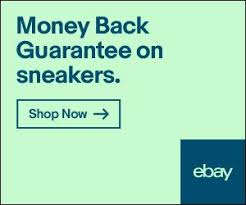
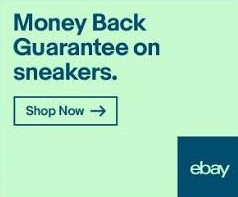
完成一半商品內容

Changed region(s): [[0.0, 0.0, 1.0, 1.0], [0.3824, 0.335, 0.5, 0.4264]]

diff --git a/index.html b/index.html
@@ -217,6 +217,195 @@
 
     }
 
+    /* ------------------Advertisement -------------------*/
+    #adSection{
+    
+        height: 293px;
+        padding:32px 0;
+
+    }
+    .add-border{
+        border: 1px solid #bbb;
+
+        box-sizing: border-box;
+
+    }
+
+    #column1{
+        float: left;
+        height: 293px;
+    }
+    #column2{
+        position: relative;
+        float: left;
+        height: 293px;
+        width: 324px;
+    }
+    #ad2{
+        position: absolute;
+        top:0;
+        right: 0;
+      
+    }
+    #ad3{
+        position: absolute;
+        bottom: 0;
+        right: 0;
+    }
+
+    /* ------------------Porduction Section ------------------- */
+
+    #productSection{
+
+        width: 100%;
+        height: 647px;
+
+        padding-bottom: 75px;
+        overflow: hidden;
+    }
+    .hero-heading{
+        height: 45px;
+        border-bottom:1px solid #ddd ;
+
+        font-weight: 400;
+        color: #555;
+
+    }
+
+    #show-product{
+
+        width: 100%;
+        height: 602.5px;
+    }
+
+    .product-section{
+
+        float: left;
+        width: 585px;
+        height:602.5px
+
+    }
+
+    .product-photo{
+
+        width: 585px;
+        height: 360px;
+
+    }
+
+    .photo-column1{
+
+        float: left;
+
+        width: 440px;
+        height: 360px;
+        
+        border-width: 2px 0 2px 2px;
+        border-color: #ddd;
+        border-style: solid;
+
+        box-sizing: border-box;
+        overflow: hidden;
+
+    }
+
+    #photo1{
+        height: 360px;
+        position: relative;
+        top:-2px;
+        left: -100px;
+    }
+
+    .photo-column2{
+        float: left;
+
+        width: 120px;
+        height: 360px;
+
+        box-sizing: border-box;
+        overflow: hidden;
+
+
+    }
+
+    .thumb{
+        width: 120px;
+        height: 120px;
+
+        border-width: 2px 2px 0px 2px;
+        border-color: #ddd;
+        border-style: solid;
+
+        box-sizing: border-box;
+        overflow: hidden;
+    }
+
+    .thumb:last-child{
+        border:2px solid #ddd;
+
+    }
+
+    .thumbnail{
+       height: 120px;
+    }
+
+    #thimbnail-fix{
+        position: relative;
+        top: 5px;
+        right: 10px;
+    }
+
+    /* -- ------------------Article ------------------- */
+    article{
+        color: #333333;
+    }
+
+    .title{
+
+        font-weight: 400;
+        font-size: 26px;
+
+        margin: 18px 0 10px 0;
+    }
+
+    .description-container{
+        width: 370px;
+        height: 118px;
+
+    }
+    .product-details{
+
+        font-weight: 400;
+        font-size: 15px;
+
+        line-height: 1.5em;
+
+    }
+
+    .read-more{
+
+        display: inline-block;
+        width: 20px;
+        height: 20px;
+        background-image: url("img/paper.png");
+        background-size: cover;
+
+        vertical-align: middle;
+    }
+    .left-col{
+        float: left;
+        width: 440px;
+    }
+
+    .right-col{
+
+        float: right;
+        width: 140px;
+
+    
+    }
+
+
 
 
 
@@ -310,48 +499,109 @@
                 <li class="navItem li-space no-border"><a href="#">Daily Deals</a></li>
              </ul>
 
-             <!-- ------------------Advertisement ------------------->
-
-             <section  id="adselect" class="clearfix setBGColor">
-                 <div class="container">
-                     <div id="column1">
-                         <div >
-                             <img id="ad1" src="img/ad1.png" alt="ad1" width="876px">
-                         </div>
-
-                     </div>
-
-                     <div id="column2">
-
-                         <div>
-                             <img id="ad2" src="img/ad2.jpg" alt="ad2" width="250px">
-                         </div>
-
-                         <div>
-                             <img id="ad3" src="img/ad3.jpg" alt="ad3"  width="250px">
-                         </div>
-
-                     </div>
-
-                 </div>
-
-             </section>
-
-        
-        
-        
-        
-        
-        
-        
-        
-        
-        
-        
-        
-        
         </div>
      </nav>
+
+        <!-- ------------------Advertisement ------------------->
+
+        <section  id="adSection" class="clearfix setBGColor">
+            <div class="container">
+                <div id="column1" >
+                    <div >
+                        <img id="ad1" class="add-border" src="img/ad1.png" alt="ad1" width="870px">
+                    </div>
+
+                </div>
+
+                <div id="column2">
+
+                    <div>
+                        <img id="ad2" class="add-border" src="img/ad2.jpg" alt="ad2" width="230px">
+                    </div>
+
+                    <div>
+                        <img id="ad3" class="add-border" src="img/ad3.jpg" alt="ad3"  width="230px">
+                    </div>
+
+                </div>
+
+            </div>
+
+        </section>
+
+        <!-- ------------------Porduction Section ------------------->
+        <section id="productSection" class="clearfix setBGColor">
+            <div class="container">
+                <h2 class="hero-heading">Today's Featured Collection</h2>
+
+                <div id="show-product" >
+                    <div class="product-section">
+                        <div class="product-photo">
+                            <div class="photo-column1">
+                                <img id="photo1" src="img/photo1.png" alt="">
+
+                            </div>
+
+                            <div class="photo-column2">
+
+                                <div class="thumb">
+                                    <img id="thimbnail-fix" class="thumbnail" src="img/thumbnail1_1.png" alt="">
+                                </div>
+
+                                <div class="thumb">
+                                    <img class="thumbnail" src="img/thumbnail1_2.png" alt="">
+                                </div>
+
+                                <div class="thumb">
+                                    <img class="thumbnail" src="img/thumbnail1_3.png" alt="">
+                                </div>
+
+                            </div>
+
+                        </div>
+
+                          <!-- ------------------Article ------------------->
+                        <article>
+                            <div class="left-col">
+                                <h3 class="title">In a Flash</h3>
+
+                                <div class="description-container">
+                                    <p class="product-details">
+                                        Make new memories with instant cameras
+                                         like a Fuji Instax Mini 25, a Leica Sofort, or a
+                                          Polaroid instant-print camera-plus a 
+                                          Lomo'Instant Automat from Lomography. 
+
+                                      <a href="#" title="閱讀更多">
+                                         <span class="read-more"></span>
+                                      </a>
+                                    </p>
+                                </div>
+
+                            </div>
+
+                            <div  class="right-col">
+
+                                <ul class="rigth-col-container right-col-text"> 
+                                    <li  class="right-col-item">15 item</li>
+                                    <li  class="right-col-item">by ebaytecheditor</li>
+                                    <li  class="right-col-item"><a class="active-link" href="#">Shop now</a></li>
+                                </ul>
+
+                            </div>
+
+                        </article>
+
+
+
+                    </div>
+
+                </div>
+            </div>
+
+
+        </section>
+
 
 
 
